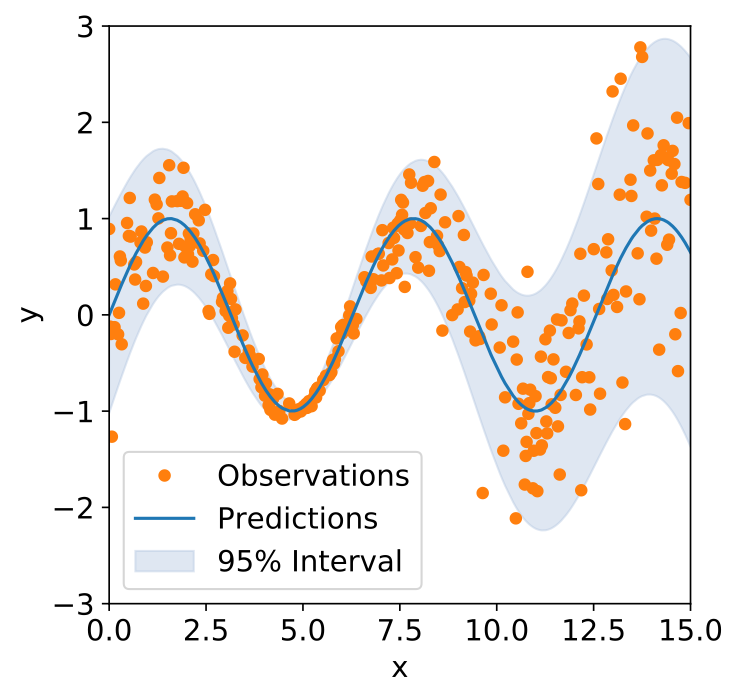
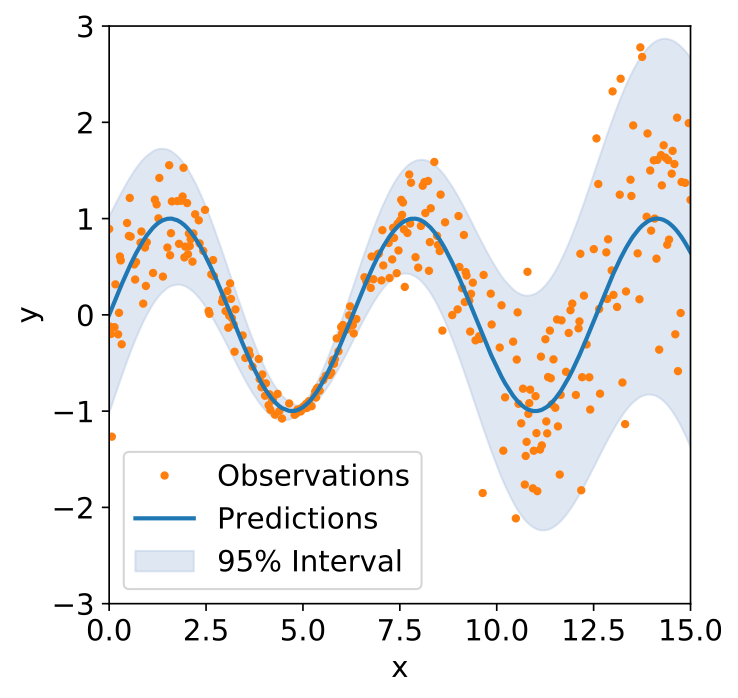
update xy plot details and assoc plots in README

diff --git a/uncertainty_toolbox/viz.py b/uncertainty_toolbox/viz.py
@@ -128,8 +128,9 @@ def plot_xy(
 
     fig = plt.figure()
     fig.set_size_inches(5.0, 5.0)
-    h1 = plt.plot(x, y_true, 'o', c='#ff7f0e', markersize=5)
-    h2 = plt.plot(x, y_pred, '-', c='#1f77b4')
+    #h1 = plt.plot(x, y_true, 'o', c='#ff7f0e', markersize=4)
+    h1 = plt.plot(x, y_true, '.', c='#ff7f0e')
+    h2 = plt.plot(x, y_pred, '-', c='#1f77b4', linewidth=2)
     h3 = plt.fill_between(
         x,
         y_pred - intervals,
